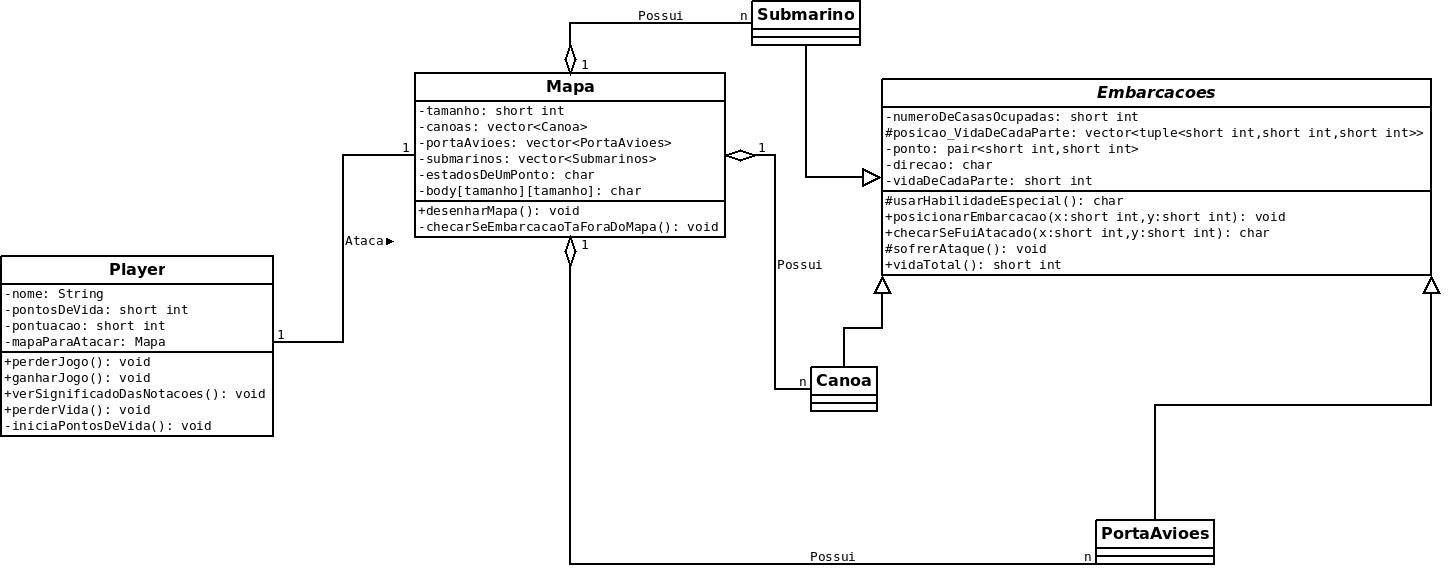
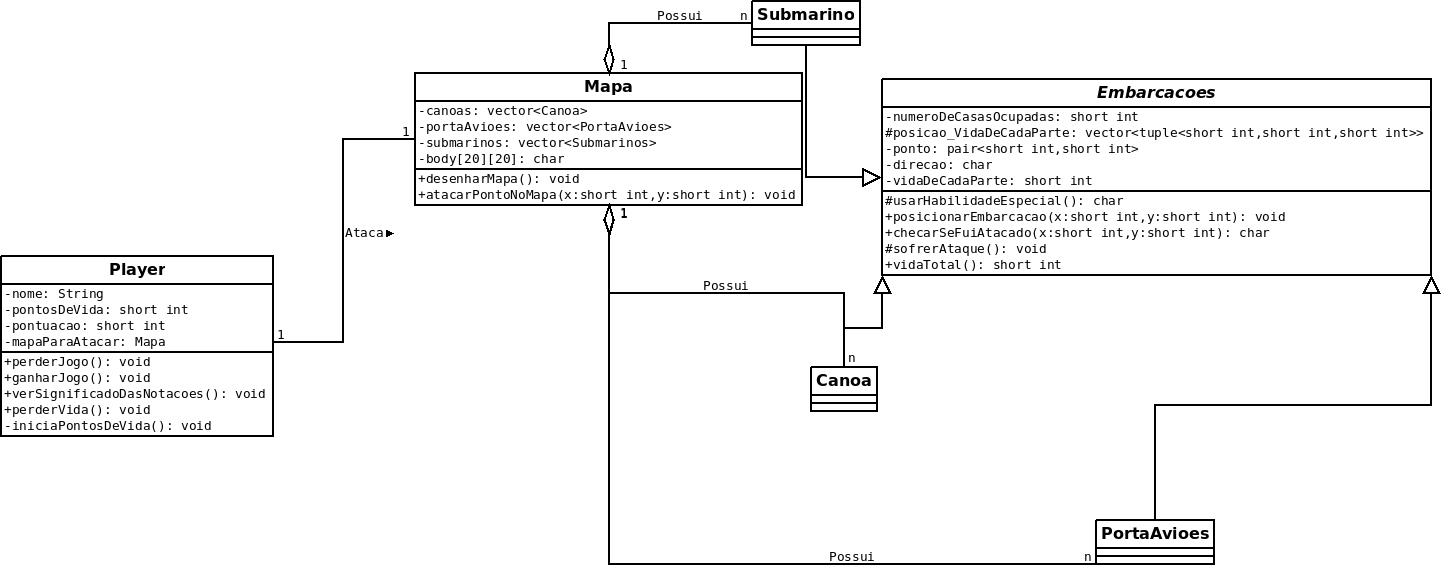
Classe mapa + ajustes no diagrama de classes Nota: desenho do mapa foi projetado para uma resolucao de terminal de 104x22 em uma tela de resolucao=1600x900

diff --git a/src/mapa.cpp b/src/mapa.cpp
@@ -1,0 +1,72 @@
+#include "mapa.hpp"
+
+Mapa::~Mapa(){
+}
+Mapa::Mapa(){
+  // memset ?
+  for (shi i = 0; i < 20; i++) {
+    for(shi j = 0;j<20;j++){
+      this->body[i][j] = '?';
+    }
+  }
+  //
+}
+
+void Mapa::setCanoas(Canoa canoas){
+  this->canoas.push_back(canoas);
+}
+void Mapa::setSubmarinos(Submarino submarinos){
+  this->submarinos.push_back(submarinos);
+}
+void Mapa::setPortaAvioes(PortaAvioes portaAvioes){
+  this->portaAvioes.push_back(portaAvioes);
+}
+
+void Mapa::atacarPontoNoMapa(shi x,shi y){
+
+  char letra = 'A',letraTemp='A';
+
+  for(shi i = 0;i<this->canoas.size();i++){
+    letraTemp = this->canoas[i].checarSeFuiAtacado(x,y);
+    if(letra!= letraTemp){
+      letra = letraTemp;
+      this->body[x][y] = letra;
+      return;
+    }
+  }
+
+  for(shi i = 0;i<this->submarinos.size();i++){
+    letraTemp = this->submarinos[i].checarSeFuiAtacado(x,y);
+    if(letra!= letraTemp){
+      letra = letraTemp;
+      this->body[x][y] = letra;
+      return;
+    }
+  }
+
+  for(shi i = 0;i<this->portaAvioes.size();i++){
+    letraTemp = this->portaAvioes[i].checarSeFuiAtacado(x,y);
+    if(letra!= letraTemp){
+      letra = letraTemp;
+      this->body[x][y] = letra;
+      return;
+    }
+  }
+
+  this->body[x][y] = letra;
+  if(letra == 'A'){
+    printf("Aguaa!!!\n");
+  }
+
+}
+
+void Mapa::desenharMapa(){
+  printf("\n");
+  for(int i = 0;i<20;i++){
+    printf("\n");
+    for(int j = 0; j<20;j++){
+      printf("| %c ",this->body[i][j]);
+    }
+  }
+  printf("\n");
+}

diff --git a/src/embarcacoes.cpp b/src/embarcacoes.cpp
@@ -77,21 +77,20 @@ char Embarcacoes::checarSeFuiAtacado(shi x,shi y){
   this->setPonto(x,y);
   char letra='A';
   for (auto i :this->posicao_VidaDeCadaParte) {
-    if(get<0>(i)==this->getPonto().first and get<1>(i)==getPonto().second){
+    if(get<0>(i)==this->getPonto().first and get<1>(i)==this->getPonto().second){
       letra = this->usarHabilidadeEspecial();
     }
-  }
-  if(letra == 'A'){
-    printf("Aguaaa!!!!\n");
   }
   return letra;
 }
 
 void Embarcacoes::sofrerAtaque(){
-  for (shi i = 0; i < this->getNumeroDeCasasOcupadas(); i++) {
-    if(get<0>(this->posicao_VidaDeCadaParte[i])==getPonto().first and get<1>(this->posicao_VidaDeCadaParte[i])==getPonto().second){
-      get<2>(this->posicao_VidaDeCadaParte[i]) -=1;
-      break;
+  for (int i=0;i<this->getNumeroDeCasasOcupadas();i++) {
+    if(get<0>(this->posicao_VidaDeCadaParte[i])==this->getPonto().first and get<1>(this->posicao_VidaDeCadaParte[i])==this->getPonto().second){
+      get<2>(this->posicao_VidaDeCadaParte[i])--;
+      //printf("Vida:%d\n",get<2>(this->posicao_VidaDeCadaParte[i]));
+      return;
     }
   }
+  //printf("Vida nao reduzida\n")
 }

diff --git a/inc/mapa.hpp b/inc/mapa.hpp
@@ -1,0 +1,37 @@
+#ifndef MAPA_HPP
+#define MAPA_HPP
+#include "canoa.hpp"
+#include "submarino.hpp"
+#include "portaAvioes.hpp"
+using namespace std;
+using shi = short int;
+class Mapa{
+  private:
+    vector<Canoa>canoas;
+    vector<Submarino>submarinos;
+    vector<PortaAvioes>portaAvioes;
+    char estadosDeUmPonto;// A -> Agua ; S -> Submarino; P -> PortaAvioes; C-> Canoa; ?->Nao sabe; D -> Destroco
+    char body[20][20];
+  public:
+    Mapa();
+    ~Mapa();
+    //________
+
+    /*char getEstadosDeUmPonto();
+    void setEstadosDeUmPonto(char estadosDeUmPonto);
+*/
+    //vector<Canoa>getCanoas();
+    void setCanoas(Canoa canoas);
+
+    //vector<Submarino>getSubmarinos();
+    void setSubmarinos(Submarino submarinos);
+
+    //vector<PortaAvioes>getPortaAvioes();
+    void setPortaAvioes(PortaAvioes portaAvioes);
+    //_________
+    void desenharMapa();
+    void atacarPontoNoMapa(shi x, shi y);
+};
+
+
+#endif

diff --git a/src/submarino.cpp b/src/submarino.cpp
@@ -13,13 +13,14 @@ char Submarino::usarHabilidadeEspecial(){
   char letra = 'S';
   for(auto i :this->posicao_VidaDeCadaParte){
     if(get<0>(i)==this->getPonto().first and get<1>(i)==this->getPonto().second){
-      if((get<2>(i)!=1)){
-        printf("Submarino atingido!!!\nMas devido a Habilidade Especial desta embarcacao ele ainda possui uma vida\n");
+      if( get<2>(i) > 1){
         this->sofrerAtaque();
+        printf("life=%d\n",get<2>(i));
+        printf("Submarino atingido!!!\nMas devido a Habilidade Especial desta embarcacao ele ainda possui uma vida\n");
         return letra;
       }else{
-        printf("Submarino atingido e destruido!!!\n");
         this->sofrerAtaque();
+        printf("Submarino atingido e destruido!!!\n");
         letra = 'D';
         return letra;
       }

diff --git a/src/main.cpp b/src/main.cpp
@@ -1,20 +1,22 @@
 #include <iostream>
 #include <string>
 #include <fstream>
-#include "embarcacoes.hpp"
+
 #include "canoa.hpp"
 #include "portaAvioes.hpp"
 #include "submarino.hpp"
+
+#include "mapa.hpp"
 using namespace std;
 
 int main(){
-    Canoa canoa1(2,2);
-    canoa1.checarSeFuiAtacado(2,2);
-    PortaAvioes porta1(5,5,'N');
-    porta1.checarSeFuiAtacado(5,6);
-    porta1.checarSeFuiAtacado(0,0);
-    Submarino sub1(3,3,'S');
-    sub1.checarSeFuiAtacado(3,2);
-    sub1.checarSeFuiAtacado(3,2);
+    Mapa mapa1;
+    mapa1.setCanoas(Canoa(0,0));
+    mapa1.setSubmarinos(Submarino(2,2,'L'));
+    mapa1.atacarPontoNoMapa(3,2);
+    mapa1.atacarPontoNoMapa(0,0);
+    mapa1.desenharMapa();
+    mapa1.atacarPontoNoMapa(3,2);
+    mapa1.desenharMapa();
     return 0;
 }
